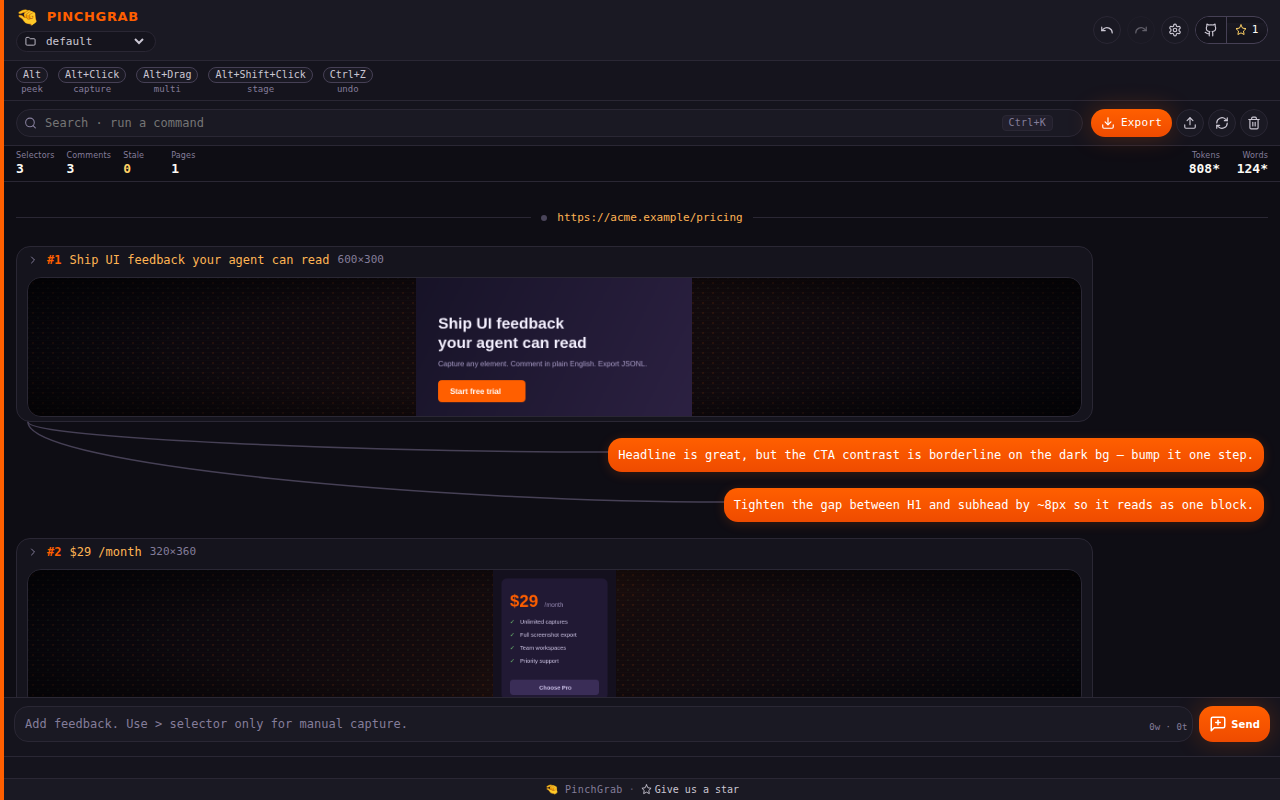
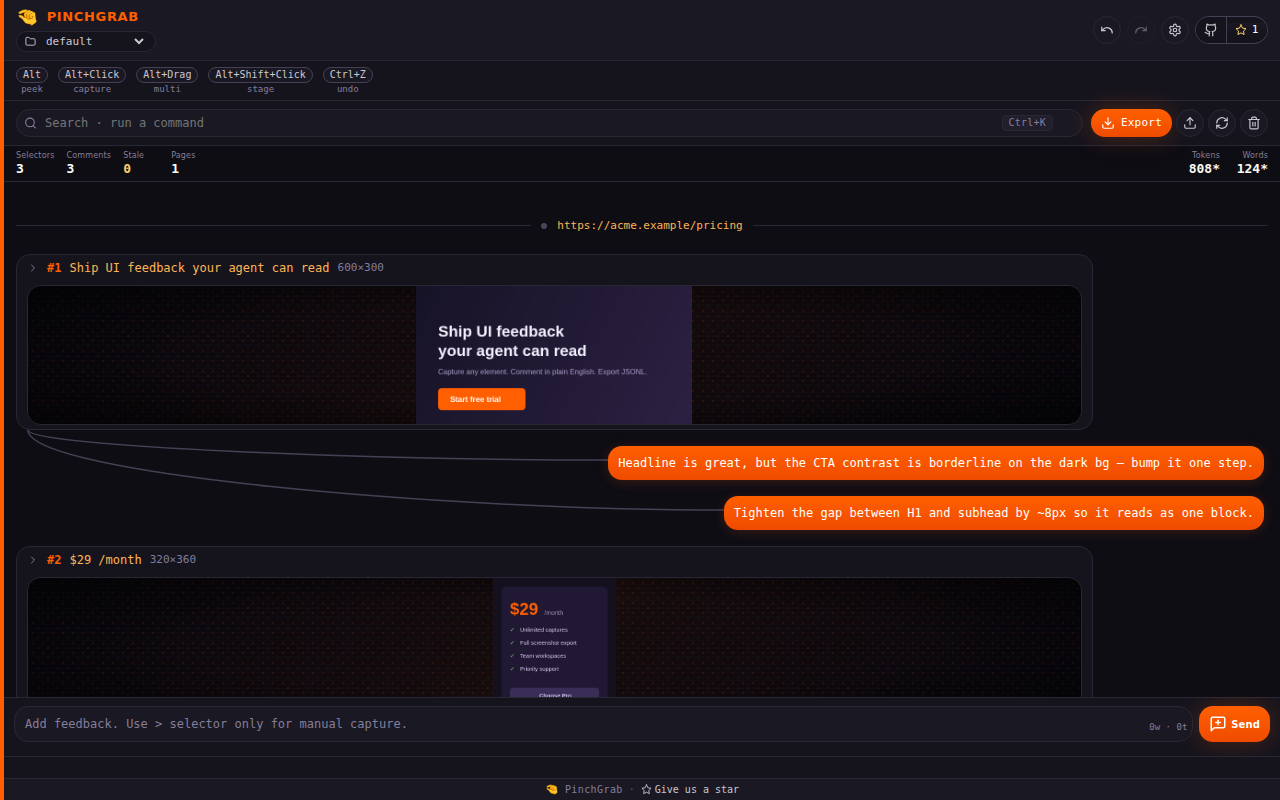
fix(pinchgrab): brand-first 440x280 promo tile per CWS image guidelines
The small promo was a shrunken panel screenshot — CWS guidance explicitly says
promo images should communicate the brand, avoid text, and not be screenshots
(they go through human image review). Regenerated as mark + wordmark on a
saturated dark gradient with a defined orange edge.

diff --git a/scripts/capture-store-shots.ts b/scripts/capture-store-shots.ts
@@ -231,12 +231,33 @@ const run = async (): Promise<void> => {
     await page.screenshot({ path: mainPath, clip: { x: 0, y: 0, width: 1280, height: 800 } });
     console.log('wrote', mainPath);
 
-    // Small promo tile: re-screenshot at 440×280 by scaling the same panel.
+    // Small promo tile (440×280): a BRAND tile, not a screenshot — CWS image
+    // guidelines: "Don't just use a screenshot; your images should primarily
+    // communicate the brand", "Avoid text", "Assume the image will be on a
+    // light gray background", "Use saturated colors", "Fill the entire
+    // region". Mark + wordmark only, saturated dark gradient, defined edges.
     const promoPage = await ctx.newPage();
     await promoPage.setViewportSize({ width: 440, height: 280 });
-    await promoPage.goto(base + '/');
-    await promoPage.waitForFunction(() => Boolean((window as any).__pinchgrab_panel), undefined, { timeout: 10_000 });
-    await seedState(promoPage);
+    await promoPage.setContent(`<!doctype html><html><head><meta charset="utf-8"><style>
+      * { margin: 0; box-sizing: border-box; }
+      body {
+        width: 440px; height: 280px; overflow: hidden;
+        display: flex; flex-direction: column; align-items: center; justify-content: center; gap: 10px;
+        font-family: -apple-system, 'Segoe UI', Roboto, sans-serif;
+        background:
+          radial-gradient(360px 240px at 50% -20%, rgba(255,95,0,.30), transparent 62%),
+          radial-gradient(300px 200px at 50% 120%, rgba(239,75,0,.22), transparent 60%),
+          linear-gradient(160deg, #1a1923 0%, #0e0d14 100%);
+        border: 2px solid rgba(255,95,0,.65);
+      }
+      .mark { font-size: 108px; line-height: 1; filter: drop-shadow(0 6px 22px rgba(255,95,0,.35)); }
+      h1 { font-size: 44px; font-weight: 800; letter-spacing: -1px; color: #fcfaf5; }
+      h1 .grab { color: #ff5f00; }
+    </style></head><body>
+      <div class="mark">🤏</div>
+      <h1>Pinch<span class="grab">Grab</span></h1>
+    </body></html>`);
+    await promoPage.waitForTimeout(300);
     const promoPath = path.join(OUT_DIR, 'promo-440x280.png');
     await promoPage.screenshot({ path: promoPath, clip: { x: 0, y: 0, width: 440, height: 280 } });
     console.log('wrote', promoPath);
